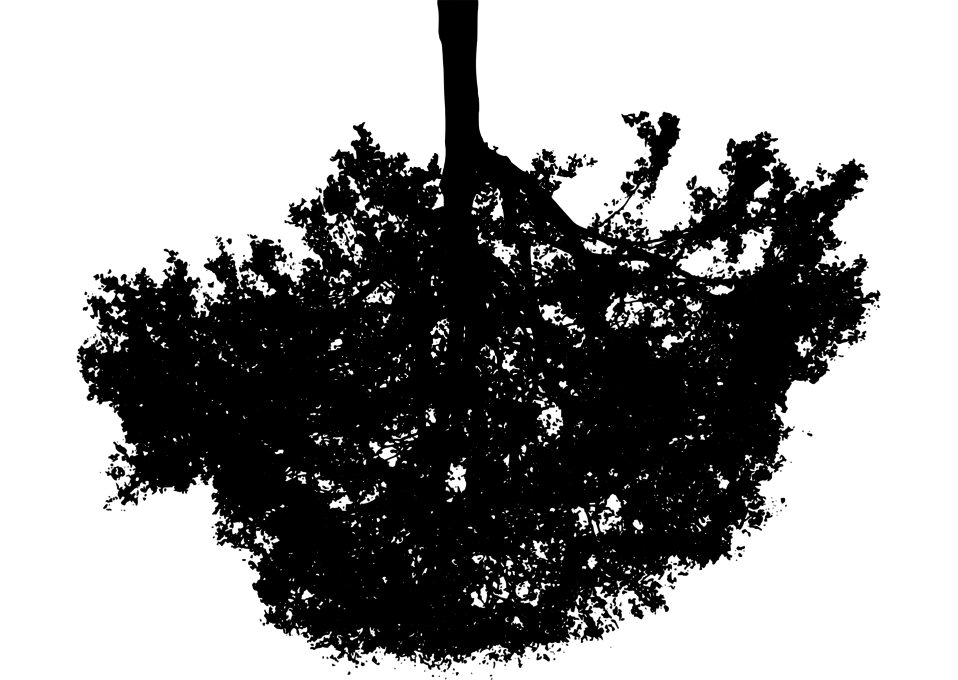
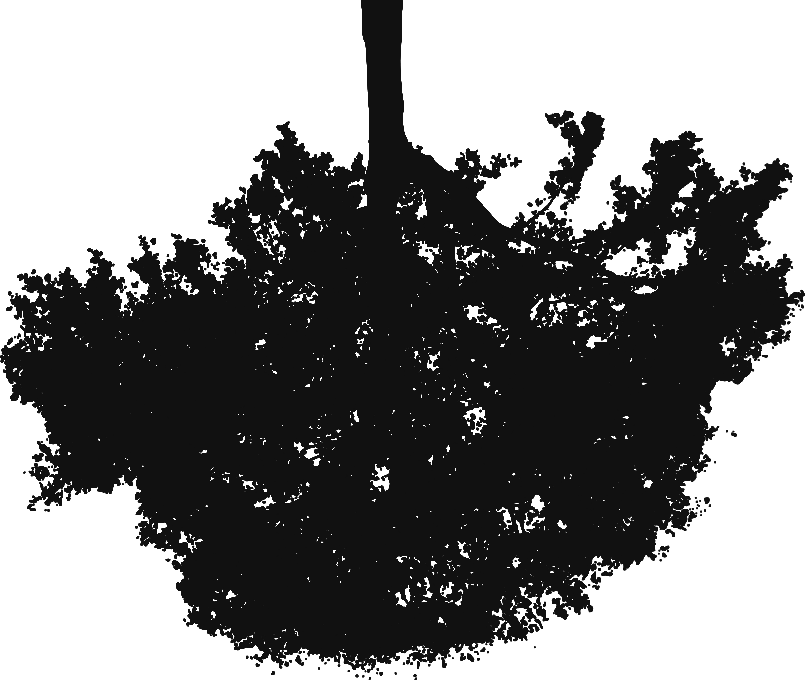
make videos section cool

diff --git a/src/partials/videos/Videos.css b/src/partials/videos/Videos.css
@@ -1,14 +1,39 @@
 .videos {
   position: relative;
-  padding: 300px 65px 65px 65px;
+  padding: 0 65px 65px 65px;
   background-color: #65b0db;
+}
+
+.videos__header {
+  display: block;
+  position: relative;
+  height: 300px;
+  max-width: 1100px;
+  margin: auto;
+}
+
+.videos__header-text {
+  position: absolute;
+  font-family: 'Cabin Sketch', cursive;
+  font-size: 70px;
+  color: #111;
+  top: 100px;
+  right: 50px;
+  margin: 0;
 }
 
 .videos__tree {
   position: absolute;
-  top: 0;
-  left: -50px;
-  width: 600px;
+  top: -50px;
+  left: 10px;
+  width: 400px;
+}
+
+.videos__tree2 {
+  position: absolute;
+  top: -50px;
+  left: 300px;
+  width: 250px;
 }
 
 .videos__list {

diff --git a/src/partials/videos/Videos.js b/src/partials/videos/Videos.js
@@ -3,11 +3,20 @@ import './Videos.css';
 
 import placeholder from './img/16x9.png';
 import tree from './img/tree.png';
+import tree2 from './img/tree2.png';
 import Fade from 'react-reveal/Fade';
 
 const Videos = (props) => (
   <section className="videos">
-    <img className="videos__tree" src={tree} />
+    <span className="videos__header">
+      <img className="videos__tree" src={tree} />
+      <img className="videos__tree2" src={tree2} />
+      <Fade right>
+      <h1 className="videos__header-text">
+        videos
+      </h1>
+      </Fade>
+    </span>
     <span className="videos__bg-overlay"></span>
     <ul className="videos__list">
     {
